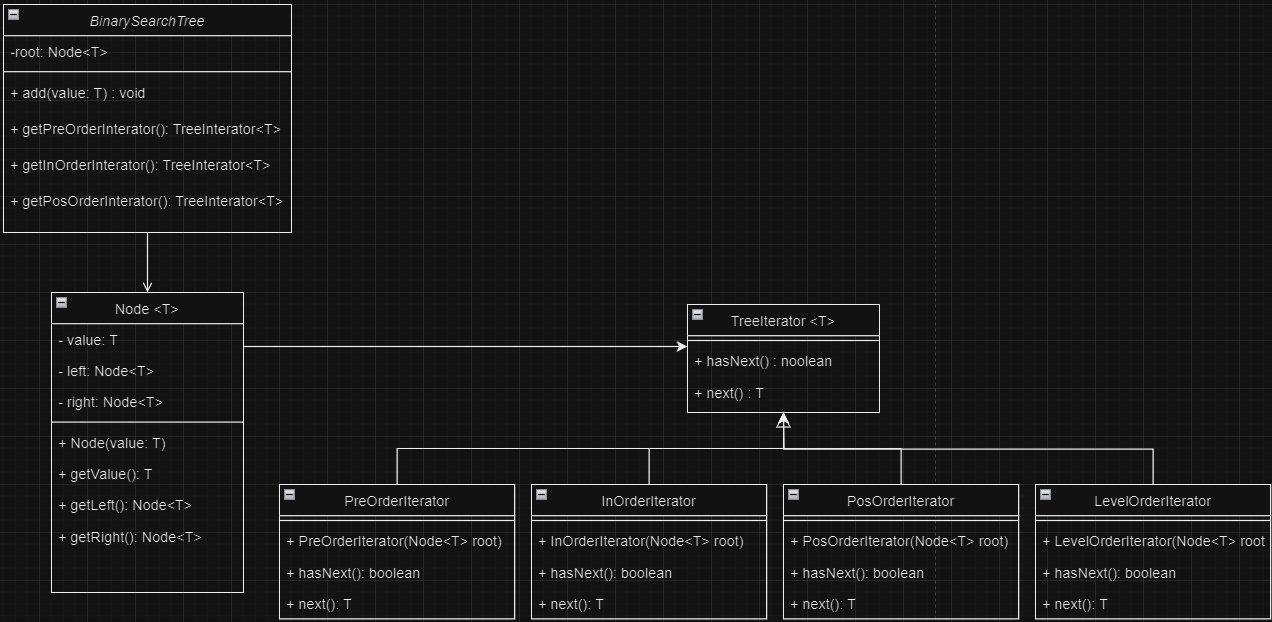
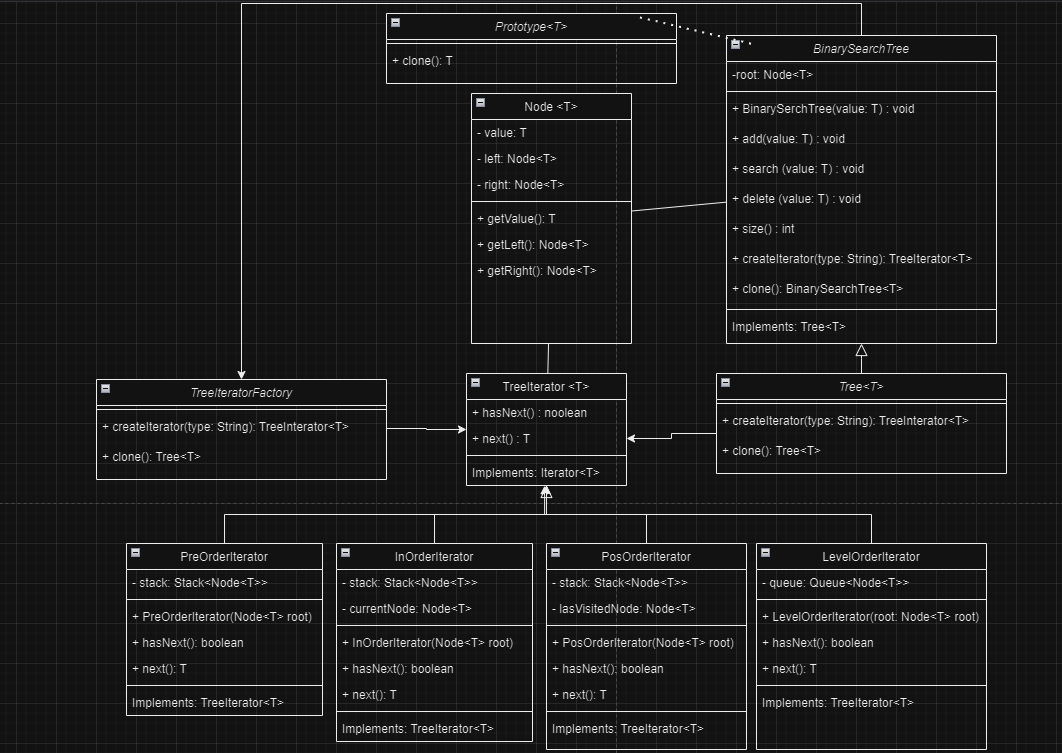
docs: diagrama de classes

diff --git a/src/factory/TreeIteratorFactory.java b/src/factory/TreeIteratorFactory.java
@@ -1,18 +1,39 @@
+// package factory;
+
+// import iterators.*;
+// import tree.Node;
+
+// import java.util.Iterator;
+
+// public class TreeIteratorFactory {
+//     public TreeIterator createIterator(String tipo, Node root) {
+//         return switch (tipo) {
+//             case "Pre" -> new PreOrderIterator(root);
+//             case "In" -> new InOrderIterator(root);
+//             case "Pos" -> new PosOrderIterator(root);
+//             case "Level" -> new LevelOrderIterator(root);
+//             default -> null;
+//         };
+//     }
+// }
 package factory;
 
 import iterators.*;
 import tree.Node;
 
-import java.util.Iterator;
-
 public class TreeIteratorFactory {
     public TreeIterator createIterator(String tipo, Node root) {
-        return switch (tipo) {
-            case "Pre" -> new PreOrderIterator(root);
-            case "In" -> new InOrderIterator(root);
-            case "Pos" -> new PosOrderIterator(root);
-            case "Level" -> new LevelOrderIterator(root);
-            default -> null;
-        };
+        switch (tipo) {
+            case "Pre":
+                return new PreOrderIterator(root);
+            case "In":
+                return new InOrderIterator(root);
+            case "Pos":
+                return new PosOrderIterator(root);
+            case "Level":
+                return new LevelOrderIterator(root);
+            default:
+                return null;
+        }
     }
 }
